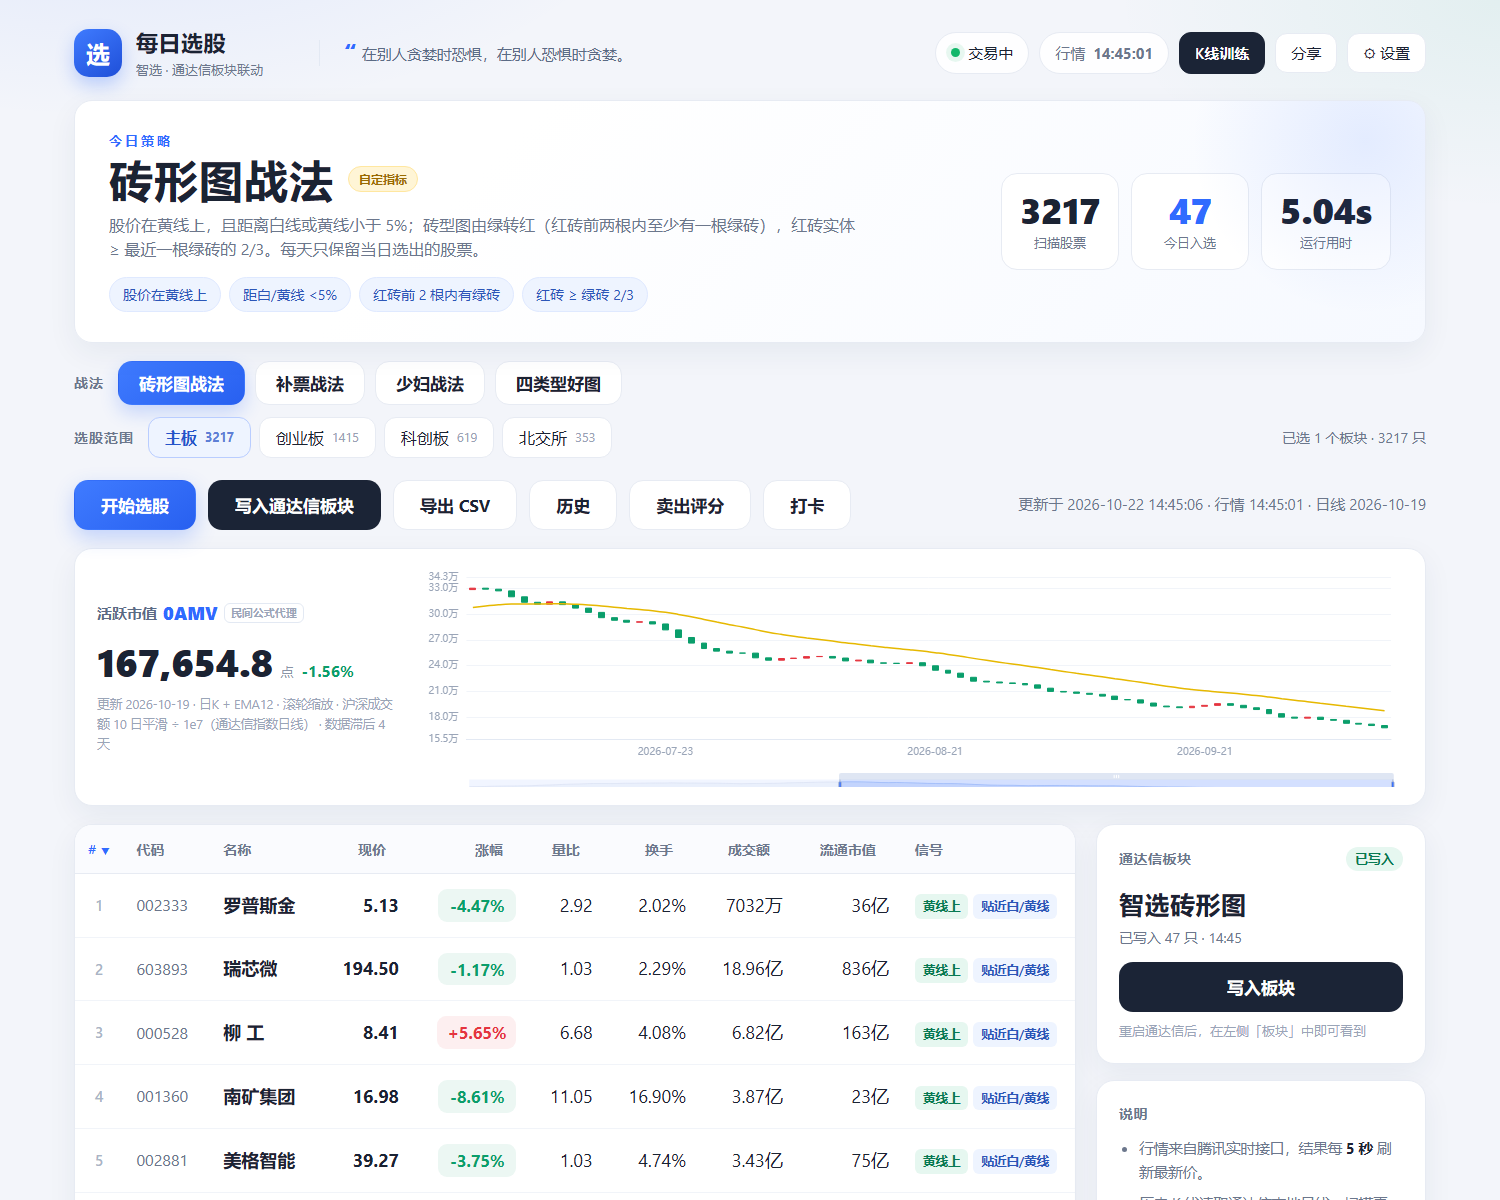
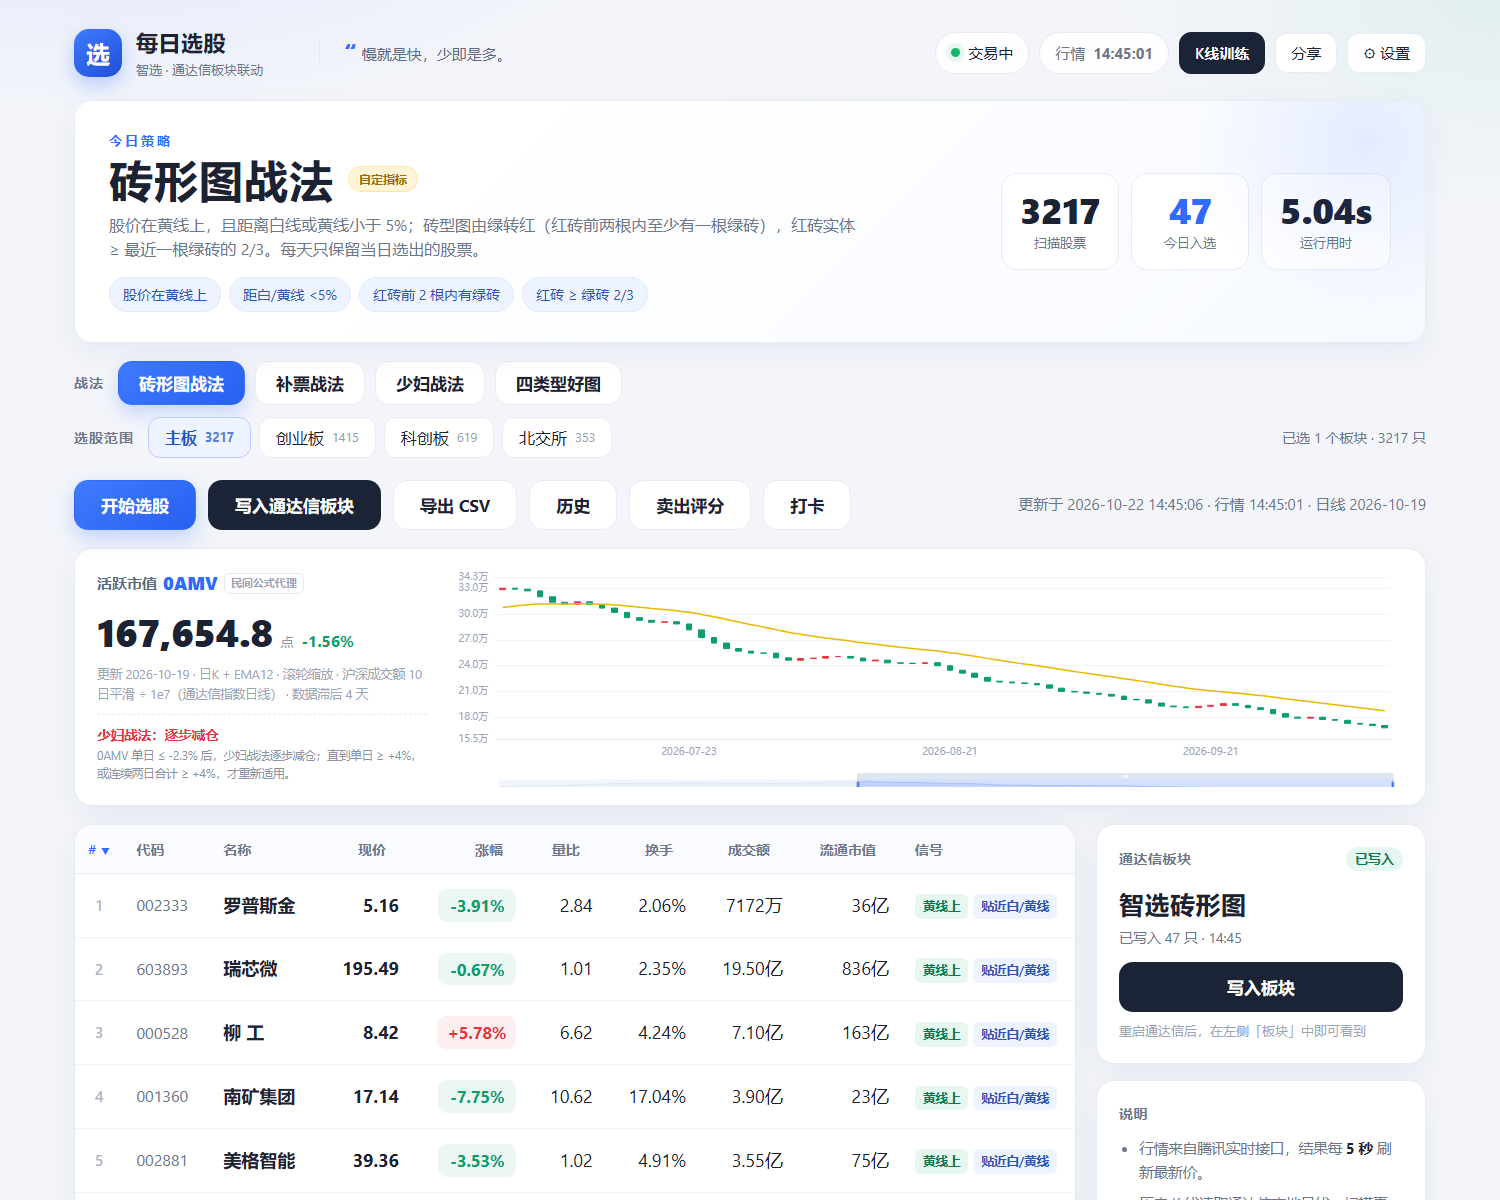
feat: 0AMV卡片增加少妇战法减仓提示

diff --git a/web/style.css b/web/style.css
@@ -905,9 +905,9 @@ tbody tr.clickable:hover { background: #f7faff; }
 /* ---------- 0AMV active market value ---------- */
 .amv-card {
   display: flex; gap: 24px; align-items: stretch;
-  padding: 18px 22px; margin: 0 0 18px; min-height: 220px;
+  padding: 18px 22px; margin: 0 0 18px; min-height: 240px;
 }
-.amv-left { flex: 0 0 300px; display: flex; flex-direction: column; justify-content: center; min-width: 0; }
+.amv-left { flex: 0 0 330px; display: flex; flex-direction: column; justify-content: center; min-width: 0; }
 .amv-title { font-size: 15px; font-weight: 700; color: #5b6b85; display: flex; align-items: center; gap: 6px; flex-wrap: wrap; }
 .amv-title span { color: #2f6bff; font-size: 18px; font-weight: 800; }
 .amv-title em {
@@ -930,4 +930,12 @@ tbody tr.clickable:hover { background: #f7faff; }
 }
 
 
+
+
+/* ---------- 0AMV tactic rule ---------- */
+.amv-rule { margin-top: 10px; padding-top: 9px; border-top: 1px dashed #e3e9f3; }
+.amv-rule-status { font-size: 13.5px; font-weight: 700; margin-bottom: 3px; }
+.amv-rule-status.cut { color: #e5343f; }
+.amv-rule-status.ok { color: #0a9e6b; }
+.amv-rule-text { font-size: 11.5px; color: #8a94a6; line-height: 1.55; }
 

diff --git a/web/app.js b/web/app.js
@@ -1505,6 +1505,19 @@
     const emas = rows.map((x) => x.ema);
     const chgMap = {};
     rows.forEach((x) => { chgMap[x.date] = x.chg; });
+
+    let tactic = "ok";
+    for (let i = 1; i < rows.length; i++) {
+      const c = Number(rows[i].chg || 0);
+      const p = Number(rows[i - 1].chg || 0);
+      if (c <= -2.3) tactic = "cut";
+      else if (c >= 4 || c + p >= 4) tactic = "ok";
+    }
+    const ruleEl = $("amvRuleStatus");
+    if (ruleEl) {
+      ruleEl.textContent = tactic === "cut" ? "少妇战法：逐步减仓" : "少妇战法：适用期";
+      ruleEl.className = "amv-rule-status " + tactic;
+    }
     const fmt = (v) => Number(v).toLocaleString("zh-CN", { maximumFractionDigits: 1 });
     const rangeFor = (start, end) => {
       const n = values.length;

diff --git a/web/index.html b/web/index.html
@@ -77,6 +77,10 @@
         <div class="amv-title">活跃市值 <span>0AMV</span><em>民间公式代理</em></div>
         <div class="amv-value"><b id="amvValue">--</b><small>点</small><i id="amvChg" class="amv-chg">--</i></div>
         <div class="amv-sub" id="amvSub">加载中…</div>
+        <div class="amv-rule">
+          <div class="amv-rule-status" id="amvRuleStatus">少妇战法：--</div>
+          <div class="amv-rule-text">0AMV 单日 ≤ -2.3% 后，少妇战法逐步减仓；直到单日 ≥ +4%，或连续两日合计 ≥ +4%，才重新适用。</div>
+        </div>
       </div>
       <div class="amv-chart" id="amvChart"></div>
     </section>

diff --git a/README.md b/README.md
@@ -447,7 +447,9 @@ python tools\sync_release.py --skip-shortcut
 - 公式：公开流传的民间 0AMV 口径 `SMA(沪深全市场成交额, 10, 1) / 1e7`
 - 成交额来源：通达信本地「上证指数 + 深证综指」日线的 amount 字段，不额外联网
 - 指南针未公开原版算法，本卡片是**代理指标**，形态接近但不保证与客户端数值完全一致
-- 通达信日线没更新时，卡片会提示「数据滞后 N 天」；更新通达信盘后数据即可刷新
+
+- 少妇战法提示：0AMV 单日 ≤ -2.3% 后逐步减仓；单日 ≥ +4%，或连续两日合计 ≥ +4%，才重新适用（卡片内显示当前状态）
+
 
 
 
